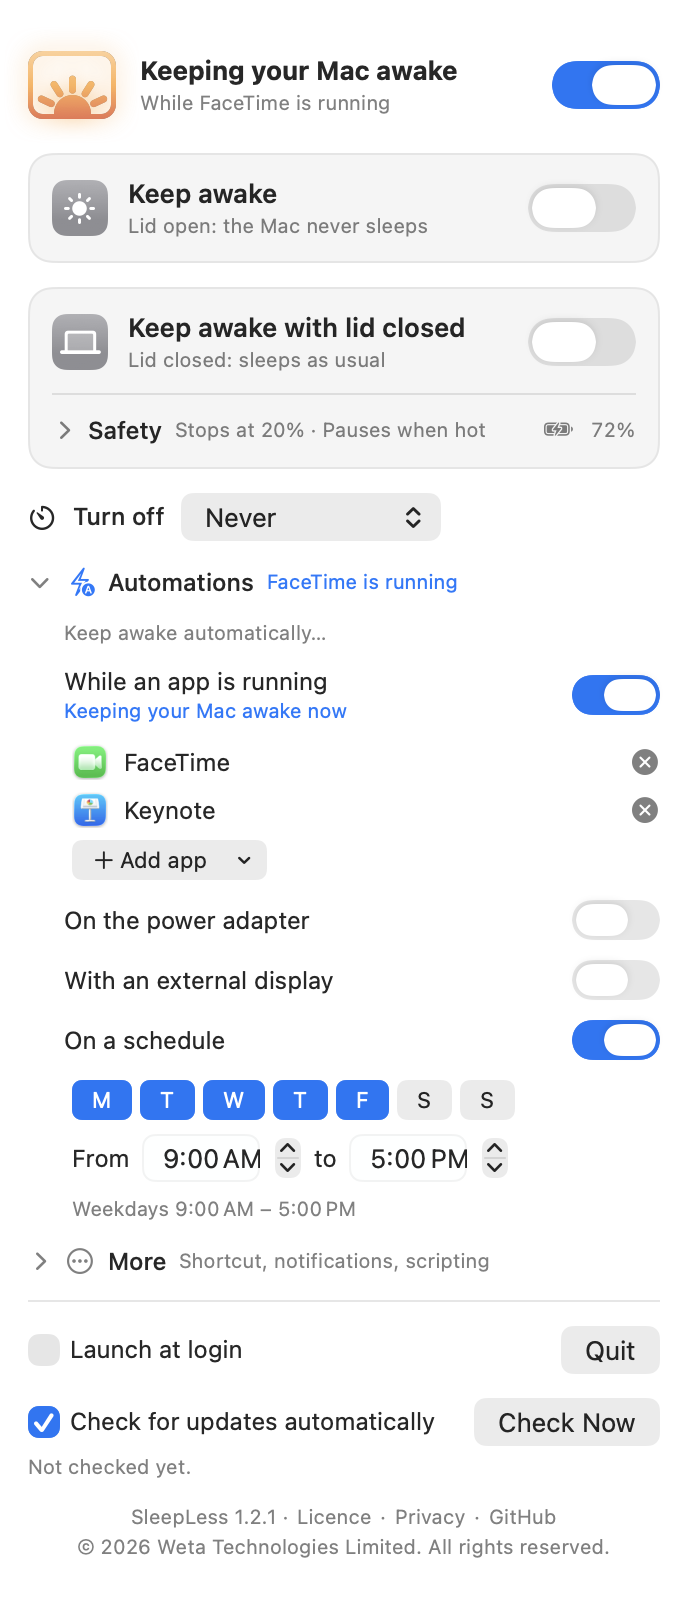
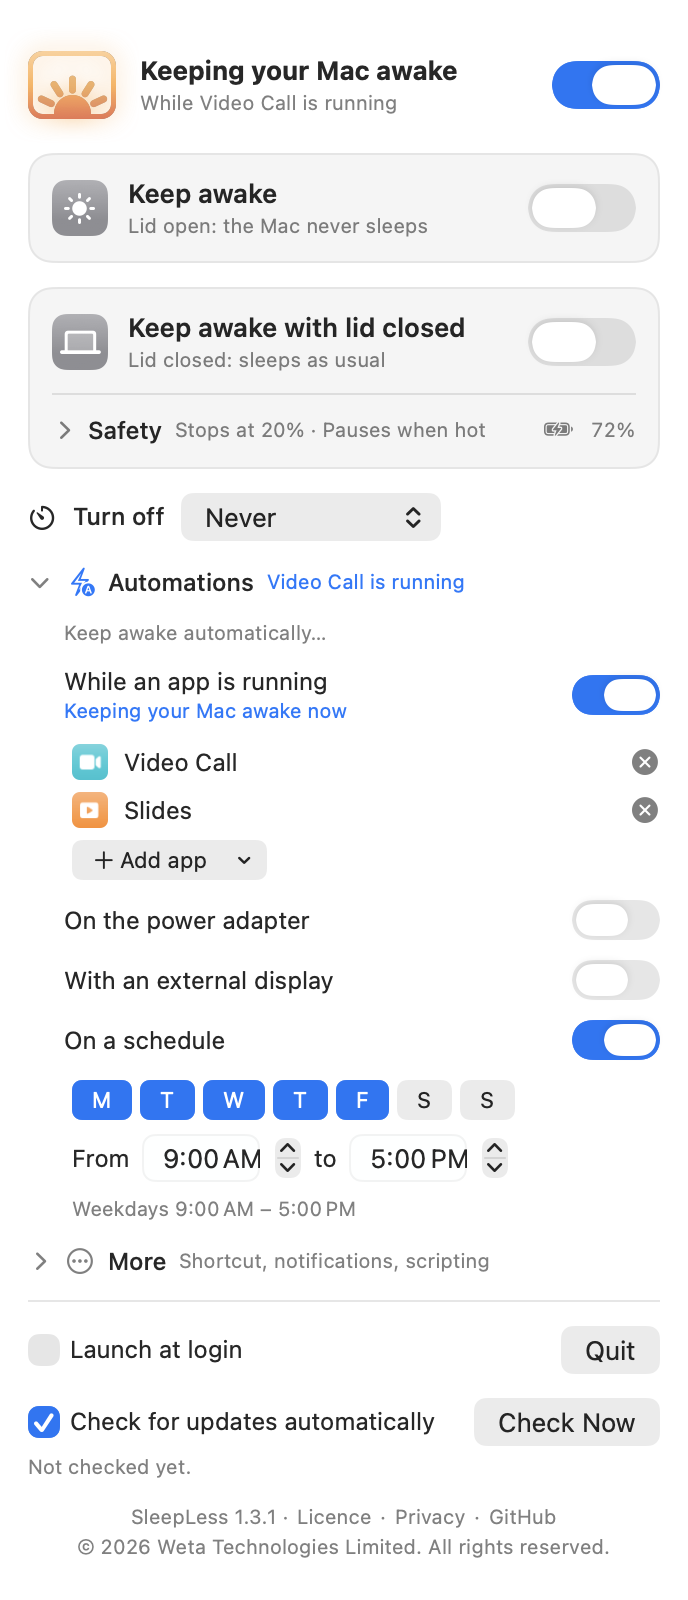
docs: no other app is named anywhere — made-up sample apps, generic scripting wording
The sample apps in --shots, the selftests and the doc comments are made up (Video Call, Slides; com.example ids)
with icons drawn in the shots path only — a symbol on a gradient tile; real users still see real icons. The
scripting row, its tooltip, the README and the site say "a shortcut, a script or a shell"; the build notes say
"Apple's command-line developer tools". Every selftest assertion keeps its meaning.

diff --git a/Shots.swift b/Shots.swift
@@ -15,23 +15,24 @@ import SwiftUI
         if let m = class_getInstanceMethod(NSApplication.self, #selector(getter: NSApplication.isActive)) {
             method_setImplementation(m, imp_implementationWithBlock({ (_: AnyObject) -> Bool in true } as @convention(block) (AnyObject) -> Bool))
         }
-        let facetime = AppRef(id: "com.apple.FaceTime", name: "FaceTime"), keynote = AppRef(id: "com.apple.iWork.Keynote", name: "Keynote")
+        let call = SampleApp.call.ref, slides = SampleApp.slides.ref
+        AppRef.sampleIcon = SampleApp.icon   // the made-up apps get made-up icons (this process only)
         var screen = Settings(); screen.screenOn = true; screen.dims = true
         var lid = Settings(); lid.lidOn = true; lid.offAfter = 60; lid.offAt = Date().addingTimeInterval(38 * 60); lid.offFrom = Date().addingTimeInterval(-22 * 60)
-        var auto = Settings(); auto.appsOn = true; auto.apps = [facetime, keynote]; auto.scheduleOn = true; auto.screenSleeps = true
+        var auto = Settings(); auto.appsOn = true; auto.apps = [call, slides]; auto.scheduleOn = true; auto.screenSleeps = true
         var more = Settings(); more.screenOn = true; more.offAtMinute = 17 * 60 + 30; more.offAt = Clock.next(minute: 17 * 60 + 30, after: Date()); more.offFrom = Date()
-        more.timeInMenuBar = true; more.notify = true; more.hotKey = HotKey(keyCode: 1, modifiers: HotKey.carbon([.control, .option, .command]), key: "S"); more.appsOn = true; more.apps = [facetime]
+        more.timeInMenuBar = true; more.notify = true; more.hotKey = HotKey(keyCode: 1, modifiers: HotKey.carbon([.control, .option, .command]), key: "S"); more.appsOn = true; more.apps = [call]
         var readme = Settings(); readme.screenOn = true; readme.offAfter = 60; readme.offAt = Date().addingTimeInterval(52 * 60); readme.offFrom = Date().addingTimeInterval(-8 * 60)
-        readme.timeInMenuBar = true; readme.appsOn = true; readme.apps = [facetime, keynote]; readme.hotKey = more.hotKey
+        readme.timeInMenuBar = true; readme.appsOn = true; readme.apps = [call, slides]; readme.hotKey = more.hotKey
         let charging = Power.Battery(percent: 72, onAC: true)
         let states: [(name: String, keeper: Keeper, tip: Bool, safety: Bool, automations: Bool, more: Bool)] = [
-            ("readme", Keeper(shots: readme, battery: charging, helperReady: true, reasons: [.app(facetime)]), false, false, false, false),
+            ("readme", Keeper(shots: readme, battery: charging, helperReady: true, reasons: [.app(call)]), false, false, false, false),
             ("setup", Keeper(shots: Settings(), battery: charging, helperReady: false), true, false, false, false),
             ("off", Keeper(shots: Settings(), battery: charging, helperReady: true), false, false, false, false),
             ("screen", Keeper(shots: screen, battery: charging, helperReady: true), false, false, false, false),
             ("lid", Keeper(shots: lid, battery: charging, helperReady: true, lidActive: true), false, true, false, false),
-            ("automations", Keeper(shots: auto, battery: charging, helperReady: true, reasons: [.app(facetime)]), false, false, true, false),
-            ("more", Keeper(shots: more, battery: charging, helperReady: true, reasons: [.app(facetime)]), false, false, false, true),
+            ("automations", Keeper(shots: auto, battery: charging, helperReady: true, reasons: [.app(call)]), false, false, true, false),
+            ("more", Keeper(shots: more, battery: charging, helperReady: true, reasons: [.app(call)]), false, false, false, true),
             ("update", Keeper(shots: Settings(), battery: Power.Battery(percent: 18, onAC: false), helperReady: true,   // last: the sample offer stays
                               note: "Lid-closed mode turned off: battery at 18%."), false, false, false, false),
         ]
@@ -121,5 +122,27 @@ import SwiftUI
         host.cacheDisplay(in: host.bounds, to: rep)
         try! rep.representation(using: .png, properties: [:])!.write(to: dir.appendingPathComponent("\(name).png"))
         window.orderOut(nil)
+    }
+}
+
+/// The apps in the sample state: made up, so no real app is named, with icons drawn here (a symbol on a gradient tile).
+enum SampleApp: String, CaseIterable {
+    case call = "com.example.videocall", slides = "com.example.slides"
+
+    var ref: AppRef { AppRef(id: rawValue, name: self == .call ? "Video Call" : "Slides") }
+
+    static func icon(for id: String) -> NSImage? {
+        guard let app = SampleApp(rawValue: id) else { return nil }
+        let symbol = app == .call ? "video.fill" : "play.rectangle.fill"
+        let tint = app == .call ? NSColor.systemTeal : NSColor.systemOrange
+        return NSImage(size: NSSize(width: 64, height: 64), flipped: false) { rect in
+            let tile = NSBezierPath(roundedRect: rect, xRadius: 14, yRadius: 14)
+            NSGradient(starting: tint.blended(withFraction: 0.3, of: .white) ?? tint, ending: tint)?.draw(in: tile, angle: -90)
+            let config = NSImage.SymbolConfiguration(pointSize: 30, weight: .semibold)
+            guard let glyph = NSImage(systemSymbolName: symbol, accessibilityDescription: nil)?.withSymbolConfiguration(config) else { return true }
+            let white = NSImage(size: glyph.size, flipped: false) { r in glyph.draw(in: r); NSColor.white.set(); r.fill(using: .sourceAtop); return true }
+            white.draw(in: NSRect(x: rect.midX - glyph.size.width / 2, y: rect.midY - glyph.size.height / 2, width: glyph.size.width, height: glyph.size.height))
+            return true
+        }
     }
 }

diff --git a/docs/index.html b/docs/index.html
@@ -155,7 +155,7 @@
       <div class="card"><div class="icon">🛡</div><h3>Safety cut-offs</h3><p>Only while charging. Pause when running hot. Low-battery cutoff (default 20 %). Turn on when you plug in, off when you unplug. All under one <em>Safety</em> disclosure with a one-line summary.</p></div>
       <div class="card"><div class="icon">⏱</div><h3>Turn off — after, or at a time</h3><p>15 min to 4 hours, or at a time you pick (tomorrow if it has passed). The status line counts down, a progress bar runs, and the time left can sit beside the menu-bar icon. Then everything turns off and normal sleep is back.</p></div>
       <div class="card"><div class="icon">👆</div><h3>Click, hold, right-click</h3><p>A quick click on the menu-bar icon turns SleepLess on (bringing back the modes you last had on) or off. Press and hold for the settings panel. Right-click for the quick menu: 15 minutes to 4 hours, until a time, indefinitely.</p></div>
-      <div class="card"><div class="icon">⌨</div><h3>Shortcut, Shortcuts, scripts</h3><p>Record a keyboard shortcut that works in any app — no Accessibility permission. Drive it from the Shortcuts app or a shell with <code>sleepless://on?minutes=30</code>, <code>on?until=17:30</code>, <code>off</code>, <code>toggle</code>. Optional notifications when a timer ends or a safety rule steps in.</p></div>
+      <div class="card"><div class="icon">⌨</div><h3>Shortcut &amp; scripting</h3><p>Record a keyboard shortcut that works in any app — no Accessibility permission. Drive it from a shortcut, a script or a shell with <code>sleepless://on?minutes=30</code>, <code>on?until=17:30</code>, <code>off</code>, <code>toggle</code>. Optional notifications when a timer ends or a safety rule steps in.</p></div>
       <div class="card"><div class="icon">🐕</div><h3>Watchdog</h3><p>If the app crashes or hangs, the helper restores normal sleep within about two minutes; quitting normally restores it immediately. Your Mac can never get stuck unable to sleep.</p></div>
     </div>
   </div>
@@ -191,7 +191,7 @@
       <figure><div class="frame"><img src="assets/panel-light.png" width="688" height="1148" alt="SleepLess panel in light appearance"></div><figcaption>Light</figcaption></figure>
       <figure><div class="frame"><img src="assets/panel-dark.png" width="688" height="1148" alt="SleepLess panel in dark appearance"></div><figcaption>Dark</figcaption></figure>
       <figure><div class="frame"><img src="assets/automations-light.png" width="688" height="1600" alt="The Automations section of the panel, expanded, light appearance"></div><figcaption>Automations</figcaption></figure>
-      <figure><div class="frame" style="max-width: 464px; margin: 0 auto"><img src="assets/menu-light.png" width="928" height="640" alt="The right-click menu on the menu-bar icon: the current state, Turn On, Keep awake for 15 minutes to 4 hours, Until a time, Indefinitely, Settings and Quit"></div><figcaption>The quick menu (right-click)</figcaption></figure>
+      <figure><div class="frame" style="max-width: 468px; margin: 0 auto"><img src="assets/menu-light.png" width="936" height="640" alt="The right-click menu on the menu-bar icon: the current state, Turn On, Keep awake for 15 minutes to 4 hours, Until a time, Indefinitely, Settings and Quit"></div><figcaption>The quick menu (right-click)</figcaption></figure>
     </div>
   </div>
 </section>
@@ -206,7 +206,7 @@
       <li><strong>Continue</strong>, <strong>Agree</strong> to the licence, <strong>Install</strong>. macOS asks for your password or Touch ID once: SleepLess goes into Applications, its helper for lid-closed mode and the charging light is set up, and SleepLess opens in the menu bar. Nothing asks again — later updates arrive signed, from inside the app.</li>
     </ol>
     <h3 style="margin-top: 28px">Or build it from source</h3>
-    <p class="muted">A few seconds with Xcode or the Command Line Tools (<code>xcode-select --install</code>):</p>
+    <p class="muted">A few seconds with Apple's command-line developer tools (<code>xcode-select --install</code>):</p>
 <pre><code>git clone https://github.com/Weta-Technologies/SleepLess.git
 cd SleepLess
 ./build.sh install</code></pre>

diff --git a/SelfTest.swift b/SelfTest.swift
@@ -56,7 +56,7 @@ enum SelfTest {
         check(broken.offAfter == 30, "the good keys beside it are kept")
         check(broken.apps.isEmpty, "a wrong-typed array counts as missing")
         var full = fresh
-        full.apps = [AppRef(id: "com.apple.FaceTime", name: "FaceTime")]
+        full.apps = [AppRef(id: "com.example.videocall", name: "Video Call")]
         full.hotKey = HotKey(keyCode: 1, modifiers: 4352, key: "S")
         full.offAtMinute = 17 * 60 + 30
         full.offFrom = Date(timeIntervalSinceReferenceDate: 1)
@@ -141,11 +141,11 @@ enum SelfTest {
     private static func automations() {
         let cal = auckland
         var s = Settings()
-        let facetime = AppRef(id: "com.apple.FaceTime", name: "FaceTime"), keynote = AppRef(id: "com.apple.iWork.Keynote", name: "Keynote")
-        s.apps = [facetime, keynote]
+        let call = AppRef(id: "com.example.videocall", name: "Video Call"), slides = AppRef(id: "com.example.slides", name: "Slides")
+        s.apps = [call, slides]
         let friday = date(2026, 9, 25, 10, 0, in: cal)
         let saturday = date(2026, 9, 26, 10, 0, in: cal)
-        let running: Set<String> = ["com.apple.FaceTime", "com.apple.finder"]
+        let running: Set<String> = ["com.example.videocall", "com.example.other"]
         let none = Automation.reasons(s, running: running, onAC: true, externalDisplay: true, now: friday, calendar: cal)
         check(none.isEmpty, "nothing on, no reasons")
         s.appsOn = true
@@ -153,15 +153,15 @@ enum SelfTest {
         s.displayOn = true
         s.scheduleOn = true
         let all = Automation.reasons(s, running: running, onAC: true, externalDisplay: true, now: friday, calendar: cal)
-        check(all == [.app(facetime), .power, .display, .schedule], "overlapping reasons in order: \(all)")
-        check(Automation.sentence(all) == "While FaceTime is running, on the power adapter, a display is connected and on the schedule", "four reasons: \(Automation.sentence(all))")
+        check(all == [.app(call), .power, .display, .schedule], "overlapping reasons in order: \(all)")
+        check(Automation.sentence(all) == "While Video Call is running, on the power adapter, a display is connected and on the schedule", "four reasons: \(Automation.sentence(all))")
         check(Automation.sentence([.power]) == "While on the power adapter", "one reason")
-        check(Automation.sentence([.app(keynote), .power]) == "While Keynote is running and on the power adapter", "two reasons")
+        check(Automation.sentence([.app(slides), .power]) == "While Slides is running and on the power adapter", "two reasons")
         check(Automation.sentence([]) == "", "no reasons")
-        let some = Automation.reasons(s, running: ["com.apple.iWork.Keynote"], onAC: false, externalDisplay: false, now: saturday, calendar: cal)
-        check(some == [.app(keynote)], "only Keynote holds on a Saturday on battery: \(some)")
-        let both = Automation.reasons(s, running: ["com.apple.FaceTime", "com.apple.iWork.Keynote"], onAC: false, externalDisplay: false, now: saturday, calendar: cal)
-        check(both == [.app(facetime), .app(keynote)], "two apps, both listed")
+        let some = Automation.reasons(s, running: ["com.example.slides"], onAC: false, externalDisplay: false, now: saturday, calendar: cal)
+        check(some == [.app(slides)], "only Slides holds on a Saturday on battery: \(some)")
+        let both = Automation.reasons(s, running: ["com.example.videocall", "com.example.slides"], onAC: false, externalDisplay: false, now: saturday, calendar: cal)
+        check(both == [.app(call), .app(slides)], "two apps, both listed")
         s.appsOn = false
         let battery = Automation.reasons(s, running: running, onAC: false, externalDisplay: false, now: friday, calendar: cal)
         check(!battery.contains(.power), "on battery is not on power")

diff --git a/Automations.swift b/Automations.swift
@@ -24,11 +24,14 @@ struct AppRef: Codable, Equatable, Hashable {
         self.init(id: id, name: name)
     }
 
-    /// Its icon from disk; a generic one if it isn't installed any more.
+    /// Its icon from disk; a generic one if it isn't installed any more. (`sampleIcon` is set by --shots alone, for
+    /// its made-up apps.)
     var icon: NSImage {
-        NSWorkspace.shared.urlForApplication(withBundleIdentifier: id).map { NSWorkspace.shared.icon(forFile: $0.path) }
+        Self.sampleIcon?(id) ?? NSWorkspace.shared.urlForApplication(withBundleIdentifier: id).map { NSWorkspace.shared.icon(forFile: $0.path) }
             ?? NSWorkspace.shared.icon(for: .applicationBundle)
     }
+
+    nonisolated(unsafe) static var sampleIcon: ((String) -> NSImage?)?
 }
 
 /// Why an automation is keeping the Mac awake, in the order the panel lists the rules.
@@ -56,8 +59,8 @@ enum Automation {
         return out
     }
 
-    /// "While FaceTime is running", "While FaceTime is running and on the power adapter",
-    /// "While FaceTime is running, on the power adapter and on the schedule".
+    /// "While Video Call is running", "While Video Call is running and on the power adapter",
+    /// "While Video Call is running, on the power adapter and on the schedule".
     nonisolated static func sentence(_ reasons: [Reason], prefix: String = "While ") -> String {
         let phrases = reasons.map(\.phrase)
         switch phrases.count {
@@ -67,7 +70,7 @@ enum Automation {
         }
     }
 
-    /// What the collapsed section says: the rules that are on, e.g. "FaceTime, Keynote · On power · Weekdays 9:00 AM – 5:00 PM".
+    /// What the collapsed section says: the rules that are on, e.g. "Video Call, Slides · On power · Weekdays 9:00 AM – 5:00 PM".
     static func summary(_ s: Settings) -> String {
         var parts: [String] = []
         if s.appsOn { parts.append(s.apps.isEmpty ? "No apps chosen" : s.apps.map(\.name).joined(separator: ", ")) }

diff --git a/PanelExtras.swift b/PanelExtras.swift
@@ -192,12 +192,12 @@ struct MoreSection: View {
                               help: "macOS asks for permission when you turn this on. SleepLess sends nothing else.",
                               isOn: Binding(get: { keeper.s.notify }, set: { keeper.setNotify($0) }))
                     VStack(alignment: .leading, spacing: 2) {
-                        Text("Shortcuts & scripts").font(.callout)
-                        Text("Open sleepless://on, off, toggle, on?minutes=30, on?until=17:30 or lid?on=1 from the Shortcuts app or a script.")
+                        Text("Scripting").font(.callout)
+                        Text("Open sleepless://on, off, toggle, on?minutes=30, on?until=17:30 or lid?on=1 from a shortcut, a script or a shell.")
                             .font(.caption).foregroundStyle(.secondary).textSelection(.enabled)
                             .fixedSize(horizontal: false, vertical: true)
                     }
-                    .help("From the Shortcuts app (Open URLs), another app or a shell: open \"sleepless://on?minutes=30\". on turns SleepLess on — with a duration or until a time (24-hour clock) — off turns it off, toggle flips it, lid?on=1 or 0 switches lid-closed mode. Nothing else is accepted.")
+                    .help("From a shortcut (Open URLs), a script or a shell: open \"sleepless://on?minutes=30\". on turns SleepLess on — with a duration or until a time (24-hour clock) — off turns it off, toggle flips it, lid?on=1 or 0 switches lid-closed mode. Nothing else is accepted.")
                 }
                 .padding(.leading, 18)
                 .transition(reduceMotion ? .opacity : .opacity.combined(with: .move(edge: .top)))

diff --git a/Panel.swift b/Panel.swift
@@ -112,7 +112,7 @@ struct StatusHeader: View {
         return Date.now...offAt
     }
 
-    /// "Screen stays on · 1:12:05 left · while FaceTime is running" — the countdown ticks by itself.
+    /// "Screen stays on · 1:12:05 left · while Video Call is running" — the countdown ticks by itself.
     private var detail: Text {
         var text = Text(mode)
         if let countdown { text = text + Text(" · ") + Text(timerInterval: countdown, countsDown: true) + Text(" left") }

diff --git a/README.md b/README.md
@@ -30,11 +30,11 @@
 - **Charging light off when closed** — in lid-closed mode, closing the lid switches the MagSafe connector's light off (handy in a dark bedroom); opening it gives the light back to macOS in the right colour. On by default; a switch under *Safety* turns it off.
 - **Safety cut-offs** for lid-closed mode, tucked under a *Safety* disclosure with a one-line summary — *Only while charging*, *Pause when running hot* (thermal state serious/critical), a *Low-battery cutoff* slider (default 20 %, 0 = never) and *Turn on when charging* (follows plug/unplug).
 - **Turn off** — never, in 15 min, 30 min, 1, 2 or 4 hours, or *at a time* you pick (today if it is still ahead, otherwise tomorrow — DST-safe). The status header counts down, a progress bar runs under the timer, and *Time left in the menu bar* puts the remaining time (1h 12m) beside the icon. When the timer ends everything you switched on turns off; automations keep their own hours.
-- **Automations** — keep the Mac awake by itself *while an app is running* (pick from the apps running now, or any app — a call, a presentation, a build, an export), *on the power adapter*, *with an external display*, or *on a schedule* (days of the week and a window; an end time earlier than the start runs overnight, 0:00 – 0:00 is all day). All off by default, collapsed behind a one-line summary that says which rule is holding right now, and the status header spells it out (*While FaceTime is running*). A click on the icon pauses an automation until its reason ends. Event-driven — app launches and quits, displays coming and going — no polling, no permissions.
+- **Automations** — keep the Mac awake by itself *while an app is running* (pick from the apps running now, or any app — a call, a presentation, a build, an export), *on the power adapter*, *with an external display*, or *on a schedule* (days of the week and a window; an end time earlier than the start runs overnight, 0:00 – 0:00 is all day). All off by default, collapsed behind a one-line summary that says which rule is holding right now, and the status header spells it out (*While Video Call is running*). A click on the icon pauses an automation until its reason ends. Event-driven — app launches and quits, displays coming and going — no polling, no permissions.
 - **One click on, one click off** — a quick click on the menu-bar icon turns SleepLess on (bringing back the modes you last had on; screen awake by default) or off. Press and hold the icon for the settings panel; right-click (or ⌃-click) it for the **quick menu**: what SleepLess is doing, Turn On/Off, *Keep awake for* 15 min – 4 hours / *Until a time…* / *Indefinitely*, Settings… and Quit.
 - **Keyboard shortcut** — record any ⌘, ⌃ or ⌥ combination (or a function key) and it does what a click on the icon does, from any app. A system hot key, so no Accessibility permission.
 - **Notifications** — optional: when a timer ends, or a safety rule turns lid-closed mode off. macOS asks for permission only when you turn it on.
-- **Shortcuts & scripts** — `open "sleepless://on?minutes=30"`, `sleepless://on?until=17:30`, `sleepless://on`, `sleepless://off`, `sleepless://toggle`, `sleepless://lid?on=1` — from the Shortcuts app (*Open URLs*), another app or a shell. Only those verbs and parameters are accepted; values are clamped and anything else is dropped.
+- **Scripting** — `open "sleepless://on?minutes=30"`, `sleepless://on?until=17:30`, `sleepless://on`, `sleepless://off`, `sleepless://toggle`, `sleepless://lid?on=1` — from a shortcut (*Open URLs*), a script or a shell. Only those verbs and parameters are accepted; values are clamped and anything else is dropped.
 - **Watchdog** — the helper treats a request older than 90 s (app quit, crashed or hung) as "off", so your Mac can never get stuck unable to sleep. Quitting the app restores normal sleep immediately.
 - **Animated menu-bar icon** — a screen with the app icon's sunrise inside. Off is a hollow sun resting on the bottom of the screen. Turn SleepLess on and the sun climbs in and five rays fan out one after another; they breathe slowly while it is on, and it all sets again when it turns off. In lid-closed mode the sun lifts to the middle of the screen as a full disc. It is a template image, so it matches light and dark menu bars; the animation pauses while your screens sleep, and under Reduce Motion it simply switches between still frames.
 - **Launch at login** (on by default after the first launch) and settings that persist — and survive updates: a new version never resets them.
@@ -48,7 +48,7 @@
 | <img src="assets/panel-light.png" alt="SleepLess panel, light appearance" width="344"> | <img src="assets/panel-dark.png" alt="SleepLess panel, dark appearance" width="344"> |
 | <img src="assets/automations-light.png" alt="The Automations section expanded, light appearance" width="344"> | <img src="assets/automations-dark.png" alt="The Automations section expanded, dark appearance" width="344"> |
 
-<p align="center"><img src="assets/menu-light.png" alt="The right-click menu on the menu-bar icon: the current state, Turn On, Keep awake for 15 minutes to 4 hours, Until a time, Indefinitely, Settings and Quit" width="464"><br><sub>Right-click (or ⌃-click) the icon for the quick menu.</sub></p>
+<p align="center"><img src="assets/menu-light.png" alt="The right-click menu on the menu-bar icon: the current state, Turn On, Keep awake for 15 minutes to 4 hours, Until a time, Indefinitely, Settings and Quit" width="468"><br><sub>Right-click (or ⌃-click) the icon for the quick menu.</sub></p>
 
 ## How it works
 
@@ -83,7 +83,7 @@ The app also reads the live `SleepDisabled` flag, so the panel shows whether lid
 
 ### Build from source
 
-You need Xcode or the Command Line Tools (`xcode-select --install`).
+You need Apple's command-line developer tools (`xcode-select --install`).
 
 ```bash
 git clone https://github.com/Weta-Technologies/SleepLess.git
@@ -106,7 +106,7 @@ A **quick click** on the menu-bar icon turns SleepLess on or off: on brings back
 
 | Control | What it does |
 | --- | --- |
-| **Status header** | The big glyph and sentence say what SleepLess is doing right now — the mode, the time left, and which automation is holding (*Screen stays on · 1:12:05 left · while FaceTime is running*); its switch is the same on/off as a click on the menu-bar icon. |
+| **Status header** | The big glyph and sentence say what SleepLess is doing right now — the mode, the time left, and which automation is holding (*Screen stays on · 1:12:05 left · while Video Call is running*); its switch is the same on/off as a click on the menu-bar icon. |
 | **Keep awake** | The Mac will not idle-sleep while the lid is open; what the screen does is the next row. |
 | **When idle** — *Stay on* / *Dim* / *Sleep* (shown while the mode is on) | *Stay on*: the screen never dims or sleeps. *Dim*: pick the brightness (*Dim to*) and the idle delay (*After*); brightness returns on the first key press or mouse move. *Sleep*: the screen sleeps as usual, the Mac stays awake. |
 | **Keep awake with lid closed** | Sets `SleepDisabled` through the root helper. Closing the lid turns the screen and keyboard light down to off while the Mac keeps running, without locking. The subtitle shows the real state. |
@@ -116,8 +116,8 @@ A **quick click** on the menu-bar icon turns SleepLess on or off: on brings back
 | **Low-battery cutoff** | Turns lid-closed mode off when the battery reaches this level on battery power (default 20 %, 0 = never). |
 | **Turn on when charging** | Turns lid-closed mode on when you plug in and off when you unplug (after the helper has been installed once). A manual flip sticks until the next plug/unplug. |
 | **Turn off** | *Never*, *In 15 minutes* – *In 4 hours*, or *At a time* (a time picker appears; today if still ahead, else tomorrow): turns everything you switched on off, with the countdown in the status header and a progress bar. Picking again restarts the countdown. *Time left in the menu bar* shows the remaining time (1h 12m) beside the icon. |
-| **Automations** (disclosure, with a summary like *FaceTime, Keynote · Weekdays 9:00 AM – 5:00 PM*, or the rule holding right now) | *While an app is running* — a list of apps with an *Add app* menu of the apps running now (or *Other…* for any app). *On the power adapter*. *With an external display*. *On a schedule* — day buttons and *From* / *to* times (an end at or before the start runs overnight). Each row says when it is keeping the Mac awake, or paused by a click. |
-| **More** (disclosure) | *Keyboard shortcut* — click *Record shortcut*, press the keys (⌘, ⌃ or ⌥ plus a key, or a function key), Esc cancels, × removes it. *Notify me* — when a timer ends or a safety rule turns lid-closed mode off (macOS asks for permission then). *Shortcuts & scripts* — the `sleepless://` commands. |
+| **Automations** (disclosure, with a summary like *Video Call, Slides · Weekdays 9:00 AM – 5:00 PM*, or the rule holding right now) | *While an app is running* — a list of apps with an *Add app* menu of the apps running now (or *Other…* for any app). *On the power adapter*. *With an external display*. *On a schedule* — day buttons and *From* / *to* times (an end at or before the start runs overnight). Each row says when it is keeping the Mac awake, or paused by a click. |
+| **More** (disclosure) | *Keyboard shortcut* — click *Record shortcut*, press the keys (⌘, ⌃ or ⌥ plus a key, or a function key), Esc cancels, × removes it. *Notify me* — when a timer ends or a safety rule turns lid-closed mode off (macOS asks for permission then). *Scripting* — the `sleepless://` commands. |
 | **Launch at login** / **Quit** | Quitting releases the assertions, restores brightness and tells the helper to restore normal sleep straight away. |
 
 Every control has a tooltip, everything works with the keyboard and VoiceOver, and the panel respects Reduce Motion (no shimmer, no transitions) and Increase Contrast.
